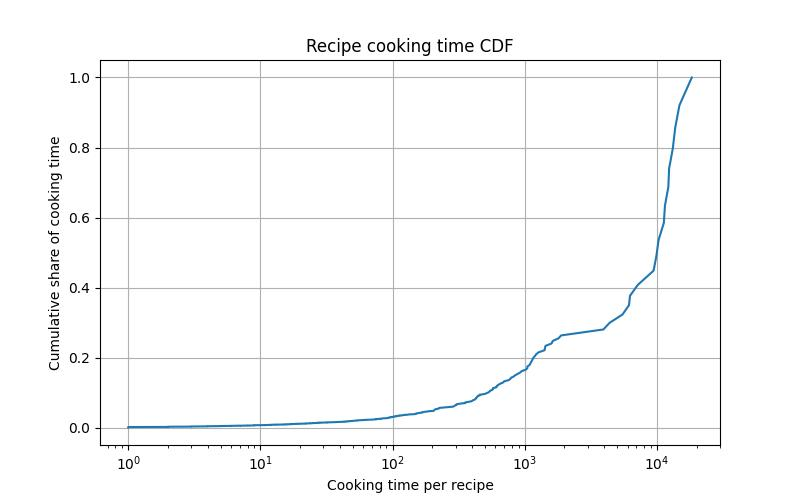
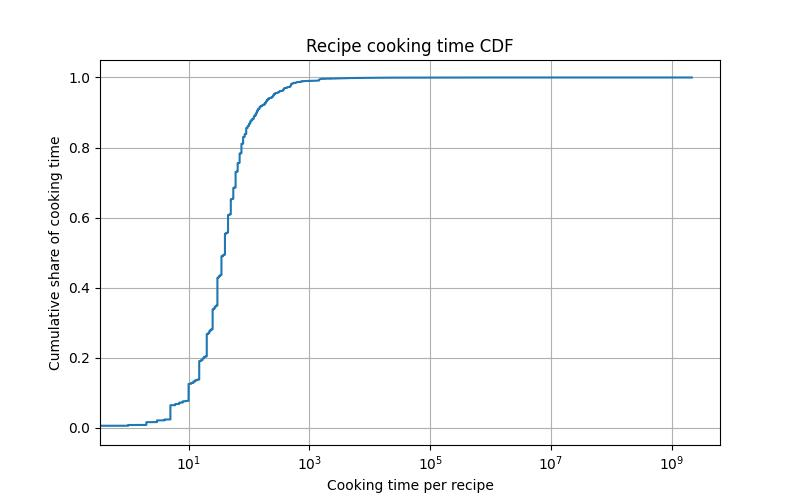
Implementing Baseline Recommender

diff --git a/src/data/eda.py b/src/data/eda.py
@@ -1,8 +1,10 @@
 import pandas as pd
+import numpy as np
+import ast
 import matplotlib.pyplot as plt
 import seaborn as sns
 
-from src.file_handler import FileHandler
+from src.data.file_handler import FileHandler
 
 class EDA:
     def __init__(self):
@@ -28,14 +30,9 @@ class EDA:
     def check_for_duplicates(self, df: pd.DataFrame) -> bool:
         return df.duplicated().any()
     
-    def data_type_report(self, df: pd.DataFrame, filepath: str) -> list:
+    def data_type_report(self, df: pd.DataFrame) -> list:
         data_types = df.dtypes
         data_types_count = data_types.value_counts()
-        data_types_count.plot(kind="bar")
-        plt.title("Data types report")
-        plt.xlabel("Columns")
-        plt.ylabel("Data types")
-        plt.savefig(filepath)
         return [data_types, data_types_count]
     
     def rating_distribution(self, df: pd.DataFrame, filepath: str) -> None:
@@ -73,17 +70,41 @@ class EDA:
         plt.savefig(filepath)
     
     def cooking_time_distribution(self, df: pd.DataFrame, filepath: str) -> None:
-        cooking_time = df["minutes"].value_counts()
-        cooking_time = cooking_time.sort_values()
-        cdf = cooking_time.cumsum() / cooking_time.sum()
+        cooking_time = df["minutes"].sort_values()
+        cdf = np.arange(1, len(cooking_time) + 1) / len(cooking_time)
         plt.figure(figsize=(8, 5))
-        plt.plot(cooking_time.values, cdf.values)
+        plt.plot(cooking_time.values, cdf)
         plt.xscale("log")
         plt.xlabel("Cooking time per recipe")
         plt.ylabel("Cumulative share of cooking time")
         plt.title("Recipe cooking time CDF")
         plt.grid(True)
         plt.savefig(filepath)
+
+    def ingredients_count_distribution(self, df: pd.DataFrame, filepath: str) -> None:
+        ingredients_count = df["n_ingredients"].value_counts().sort_index()
+        cdf = ingredients_count.cumsum() / ingredients_count.sum()
+        plt.figure(figsize=(8,5))
+        plt.plot(ingredients_count.index, cdf.values)
+        plt.xscale("log")
+        plt.xlabel("Ingredients per recipe")
+        plt.ylabel("Cumulative share of ingredients per recipe")
+        plt.title("Ingredients CDF")
+        plt.grid(True)
+        plt.savefig(filepath)
+
+    def step_count_distribution(self, df: pd.DataFrame, filepath: str) -> None:
+        step_count = df["n_steps"].value_counts().sort_index()
+        cdf = step_count.cumsum() / step_count.sum()
+        plt.figure(figsize=(8,5))
+        plt.plot(step_count.index, cdf.values)
+        plt.xscale("log")
+        plt.xlabel("Steps per recipe")
+        plt.ylabel("Cumulative steps per recipe")
+        plt.title("Recipe steps CDF")
+        plt.grid(True)
+        plt.savefig(filepath)
+
 
 df_recipes = FileHandler().csv_to_df(filepath="data/raw/RAW_recipes.csv")
 # print(EDA().get_columns_from_df(df=df))
@@ -96,3 +117,5 @@ df_interactions = FileHandler().csv_to_df(filepath="data/raw/RAW_interactions.cs
 # EDA().user_interaction_distribution(df=df_interactions, filepath="reports/eda/user_interaction_distribution_report_RAW_interactions.jpeg")
 # EDA().recipe_popularity(df=df_interactions, filepath="reports/eda/recipe_popularity_report_RAW_interactions.jpeg")
 EDA().cooking_time_distribution(df=df_recipes, filepath="reports/eda/cooking_time_distribution_report_RAW_recipes.jpeg")
+# EDA().ingredients_count_distribution(df=df_recipes, filepath="reports/eda/ingredients_count_RAW_recipes.jpeg")
+# EDA().step_count_distribution(df=df_recipes, filepath="reports/eda/step_count_distribution_RAW_recipes.jpeg")

diff --git a/src/features/recipe_features.py b/src/features/recipe_features.py
@@ -1,0 +1,54 @@
+import pandas as pd
+from ..data.file_handler import FileHandler
+
+class RecipeFeatures:
+    def __init__(self):
+        pass
+
+    def rating_count_per_recipe(self, df_interactions: pd.DataFrame) -> pd.DataFrame:
+        """
+
+        Interactions:
+        | recipe_id | rating |
+        | 1         | 5      |
+        | 1         | 4      |
+        | 1         | 5      |
+
+        Output:
+        | recipe_id | average_rating | rating_count | 
+        | 1         | 4.66           | 3            |
+        """
+        df_rating_count = df_interactions.groupby("recipe_id")["rating"].agg(["count", "mean"])
+        df_rating_count = df_rating_count.rename(columns={"count": "rating_count", "mean": "average_rating"})
+        return df_rating_count
+
+    def weighted_rating_per_recipe(self, df: pd.DataFrame, m: int = 10) -> pd.DataFrame:
+        """
+        Input:
+        | recipe_id | average_rating | rating_count | 
+        | 1         | 4.66           | 3            |
+        | 2         | 5.0            | 7            |
+
+        Output:
+        | recipe_id | average_rating | rating_count | average_global_rating | weighted_rating |
+        | 1         | 4.66           | 3            | 4.83                  | 
+        | 2         | 5.0            | 5            | 4.83                  |
+        """
+        average_global_rating = df["average_rating"].mean()
+        df["weighted_rating"] = df.apply(
+            lambda x: x["rating_count"] / (x["rating_count"] + m) * x["average_rating"]
+            + m / (x["rating_count"] + m) * average_global_rating,
+            axis=1
+            )
+        return df
+    
+    def add_rating_filter(self, df: pd.DataFrame, min_ratings: int = 5) -> pd.DataFrame:
+        df[f"over_min_rating_{min_ratings}"] = df["rating_count"] >= min_ratings
+        return df
+    
+# df_recipes = FileHandler().csv_to_df(filepath="data/raw/RAW_recipes.csv")
+# df_interactions = FileHandler().csv_to_df(filepath="data/raw/RAW_interactions.csv")
+# df_rating_count = RecipeFeatures().rating_count_per_recipe(df_interactions=df_interactions)
+# df_weighted_rating = RecipeFeatures().weighted_rating_per_recipe(df=df_rating_count)
+# df_filtered = RecipeFeatures().add_rating_filter(df=df_weighted_rating, min_ratings=10)
+# print(df_filtered)

diff --git a/src/data/preprocess.py b/src/data/preprocess.py
@@ -1,0 +1,45 @@
+import pandas as pd
+from .file_handler import FileHandler
+from .eda import EDA
+
+class Preprocessor:
+    def __init__(self):
+        pass
+
+    def drop_missing_from_df(self, df: pd.DataFrame, cols: list) -> pd.DataFrame:
+        df = df.dropna(subset=cols)
+        return df
+    
+    def drop_duplicates_from_df(self, df: pd.DataFrame, cols: list) -> pd.DataFrame:
+        df = df.drop_duplicates(subset=cols, keep="first")
+        return df
+    
+    def clean_data_types_interactions(self, df: pd.DataFrame) -> pd.DataFrame:
+        df["user_id"] = df["user_id"].astype(int)
+        df["recipe_id"] = df["recipe_id"].astype(int)
+        df["rating"] = df["rating"].astype(float)
+        return df
+    
+    
+    def clean_data_types_recipes(self, df: pd.DataFrame) -> pd.DataFrame:
+        df["id"] = df["id"].astype(int)
+        df["contributor_id"] = df["contributor_id"].astype(int)
+        return df
+
+# df_interactions = FileHandler().csv_to_df(filepath="data/raw/RAW_interactions.csv")
+# df_recipes = FileHandler().csv_to_df(filepath="data/raw/RAW_recipes.csv")
+# data_types_recipes, _ = EDA().data_type_report(df=df_recipes)
+
+
+# data_types_interactions, _ = EDA().data_type_report(df=df_interactions)
+
+# df_recipes = Preprocessor().drop_missing_from_df(df=df_recipes, cols=["id"])
+# df_recipes = Preprocessor().clean_data_types_recipes(df=df_recipes)
+# print(len(df_recipes))
+# df_recipes = Preprocessor().drop_duplicates_from_df(df=df_recipes, cols=["id"])
+# print(len(df_recipes))
+# df_interactions = Preprocessor().drop_missing_from_df(df=df_interactions, cols=["user_id", "recipe_id", "rating"])
+# df_interactions = Preprocessor().clean_data_types_interactions(df=df_interactions)
+# print(len(df_interactions))
+# df_interactions = Preprocessor().drop_duplicates_from_df(df=df_interactions, cols=["user_id", "recipe_id"])
+# print(len(df_interactions))

diff --git a/src/models/baseline.py b/src/models/baseline.py
@@ -1,0 +1,33 @@
+import pandas as pd
+from sklearn.model_selection import train_test_split
+
+from ..data.file_handler import FileHandler
+from ..features.recipe_features import RecipeFeatures
+
+class BaselineModel:
+    def __init__(self):
+        pass
+
+    def recommend_popular(self, df: pd.DataFrame, top_n: int = 5) -> pd.DataFrame:
+        df_top_n = df.sort_values(["rating_count"], ascending=False).head(top_n)
+        return df_top_n
+    
+    def recommend_top_rated(self, df: pd.DataFrame, top_n: int = 5) -> pd.DataFrame:
+        df_best_rated = df.sort_values(["average_rating", "rating_count"], ascending=False).head(top_n)
+        return df_best_rated
+    
+    def recommend_weighted(self, df: pd.DataFrame, top_n: int = 5) -> pd.DataFrame:
+        df_best_weighted_rated = df.sort_values(["weighted_rating"], ascending=False).head(top_n)
+        return df_best_weighted_rated
+
+# df_recipes = FileHandler().csv_to_df(filepath="data/raw/RAW_recipes.csv")
+# df_interactions = FileHandler().csv_to_df(filepath="data/raw/RAW_interactions.csv")
+# df_rating_count = RecipeFeatures().rating_count_per_recipe(df_interactions=df_interactions)
+# df_weighted_rating = RecipeFeatures().weighted_rating_per_recipe(df=df_rating_count)
+# df_filtered = RecipeFeatures().add_rating_filter(df=df_weighted_rating, min_ratings=10)
+# df_top_n = BaselineModel().recommend_popular(df=df_filtered)
+# print(df_top_n)
+# df_best_rated = BaselineModel().recommend_top_rated(df=df_filtered)
+# print(df_best_rated)
+# df_best_weighted_rated = BaselineModel().recommend_weighted(df=df_filtered)
+# print(df_best_weighted_rated)

diff --git a/src/models/content_based_recommender.py b/src/models/content_based_recommender.py
@@ -1,0 +1,40 @@
+import pandas as pd
+import ast
+from sklearn.feature_extraction.text import TfidfVectorizer
+from sklearn.feature_extraction.text import CountVectorizer
+
+from ..data.file_handler import FileHandler
+from ..features.recipe_features import RecipeFeatures
+
+class ContentBasedRecommender:
+    def __init__(self):
+        """
+        TF-IDF
+        Cosine Similarity
+        Top-k Ranking
+        """
+        pass
+
+    def feature_definition(self, df: pd.DataFrame) -> pd.DataFrame:
+        """ works with recipe df """
+        features = ["minutes", "tags", "steps", "n_steps", "ingredients", "n_ingredients"]
+        id = ["id"]
+        columns = id + features
+        return df[columns]
+    
+    def convert_list_to_str(self, df: pd.DataFrame, cols_to_convert: list) -> pd.DataFrame:
+        df = df.copy()
+        for col in cols_to_convert:
+            df[col] = df[col].apply(lambda x: ', '.join(ast.literal_eval(x)))
+        return df
+
+    def apply_tfidf(self, df: pd.DataFrame) -> None:
+        tfidf_vectorizer = TfidfVectorizer(max_features=1000, ngram_range=(1,2), max_df=2)
+        tfidf_vector = tfidf_vectorizer.fit_transform(df)
+        print(tfidf_vector)
+
+df_recipes = FileHandler().csv_to_df(filepath="data/raw/RAW_recipes.csv")
+df = ContentBasedRecommender().feature_definition(df=df_recipes)
+df = ContentBasedRecommender().convert_list_to_str(df=df, cols_to_convert=["tags", "steps", "ingredients"])
+# print(df)
+ContentBasedRecommender().apply_tfidf(df=df)

diff --git a/src/data/data_handler.py b/src/data/data_handler.py
@@ -1,6 +1,6 @@
 import pandas as pd
 
-from src.file_handler import FileHandler
+from src.data.file_handler import FileHandler
 
 
 class DataHandler:
@@ -15,7 +15,10 @@ class DataHandler:
         matches: id and recipe_id
         """
         return recipes_df.merge(interactions_df, left_on="id", right_on="recipe_id", how="inner")
+    
+    def match_recipe_id_with_name(self, df: pd.DataFrame) -> pd.DataFrame:
+        pass
 
-df_1 = FileHandler().csv_to_df(filepath="data/raw/RAW_recipes.csv")
-df_2 = FileHandler().csv_to_df(filepath="data/raw/RAW_interactions.csv")
-print(DataHandler().combine_recipes_and_interactions(df_1, df_2))
+# df_1 = FileHandler().csv_to_df(filepath="data/raw/RAW_recipes.csv")
+# df_2 = FileHandler().csv_to_df(filepath="data/raw/RAW_interactions.csv")
+# print(DataHandler().combine_recipes_and_interactions(df_1, df_2))
